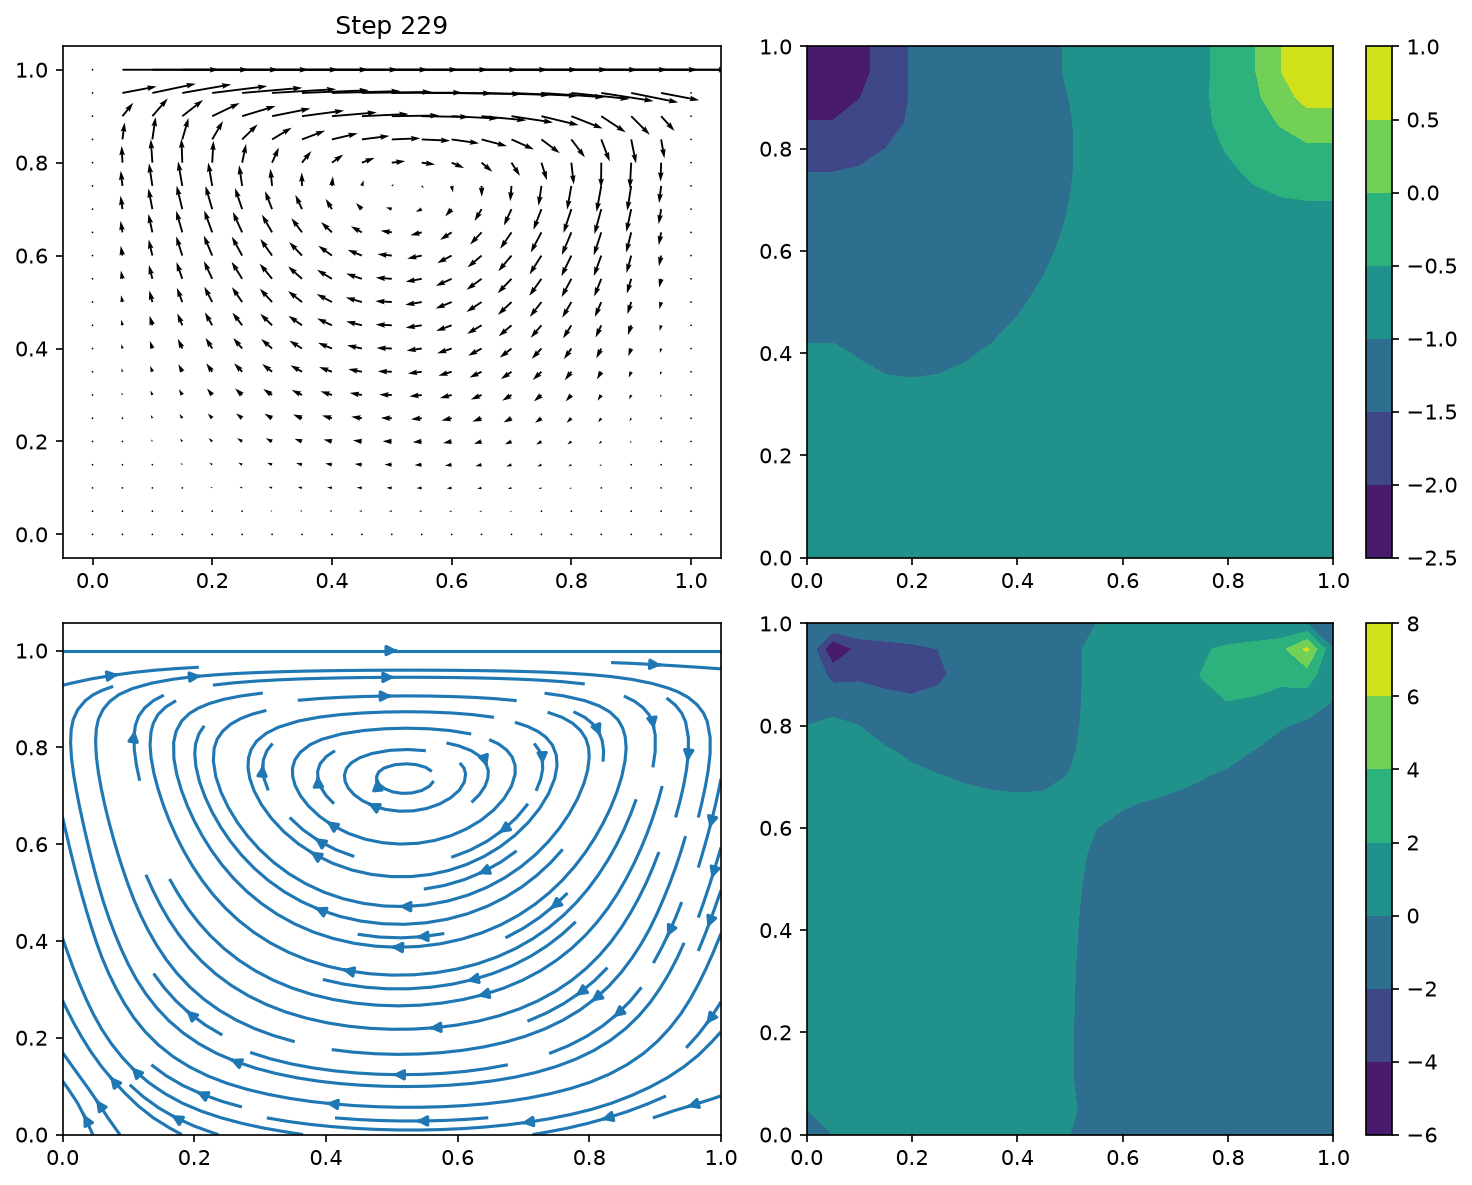
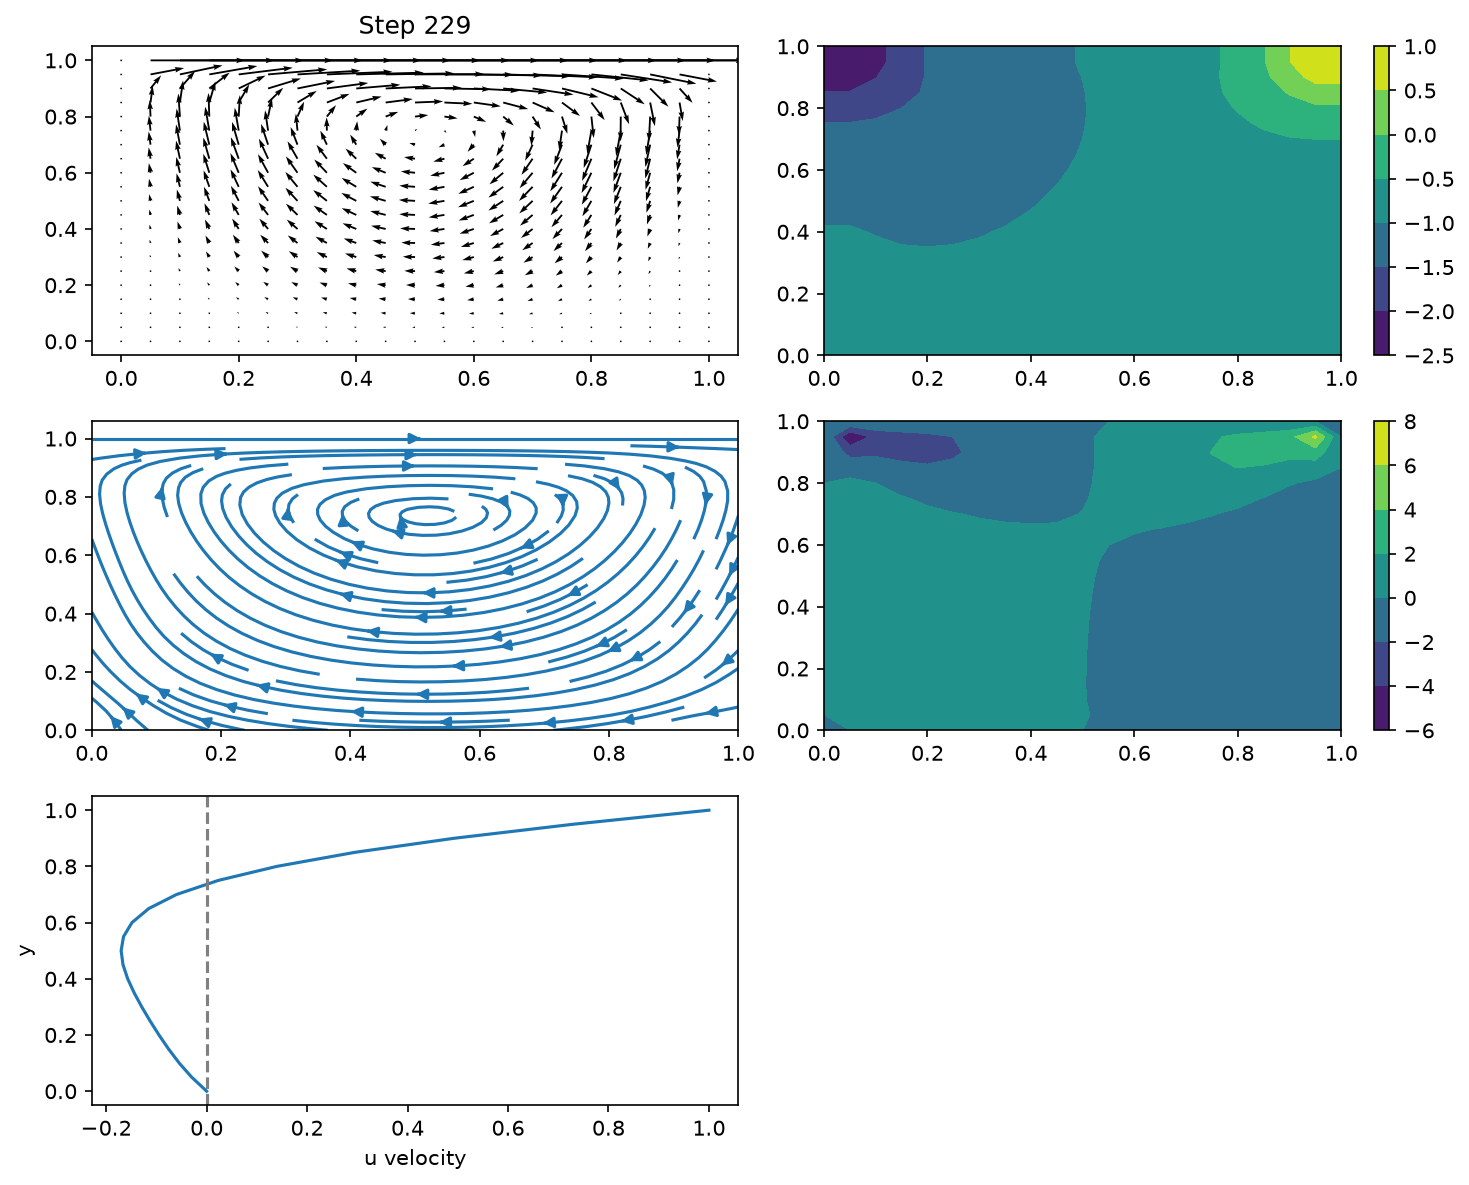
Added the centre line velocity plot to the matplotlib display

diff --git a/visualisation.py b/visualisation.py
@@ -1,3 +1,4 @@
+from matplotlib.lines import lineStyles
 import numpy as np
 import matplotlib.pyplot as plt
 from grid import Grid
@@ -9,15 +10,20 @@ class Visualisation:
 
     def Visualise(self, grid, steps):
         self.fig.clear()
-        flow = self.fig.add_subplot(2, 2, 1)
-        pressure = self.fig.add_subplot(2, 2, 2)
-        conflow = self.fig.add_subplot(2, 2, 3)
-        vorticity = self.fig.add_subplot(2, 2, 4)
+        flow = self.fig.add_subplot(3, 2, 1)
+        pressure = self.fig.add_subplot(3, 2, 2)
+        conflow = self.fig.add_subplot(3, 2, 3)
+        vorticity = self.fig.add_subplot(3, 2, 4)
+        velocity_profile = self.fig.add_subplot(3,2,5)
         flow.set_title(f"Step {steps}")
         flow.quiver(grid.xv, grid.yv, grid.u, grid.v)
         conflow.streamplot(grid.xv[0, :], grid.yv[:, 0], grid.u, grid.v)
         pressure_plot = pressure.contourf(grid.xv, grid.yv, grid.p)
         vorticity_plot = vorticity.contourf(grid.xv, grid.yv, grid.vorticity)
+        velocity_profile.plot(grid.u[:,int(grid.u.shape[1] / 2)], grid.yv[:, 0])
+        velocity_profile.axvline(x=0, color='grey', linestyle='--')
+        velocity_profile.set_xlabel('u velocity')
+        velocity_profile.set_ylabel('y')
         self.fig.colorbar(pressure_plot, ax=pressure)
         self.fig.colorbar(vorticity_plot, ax=vorticity)
         self.fig.tight_layout()
